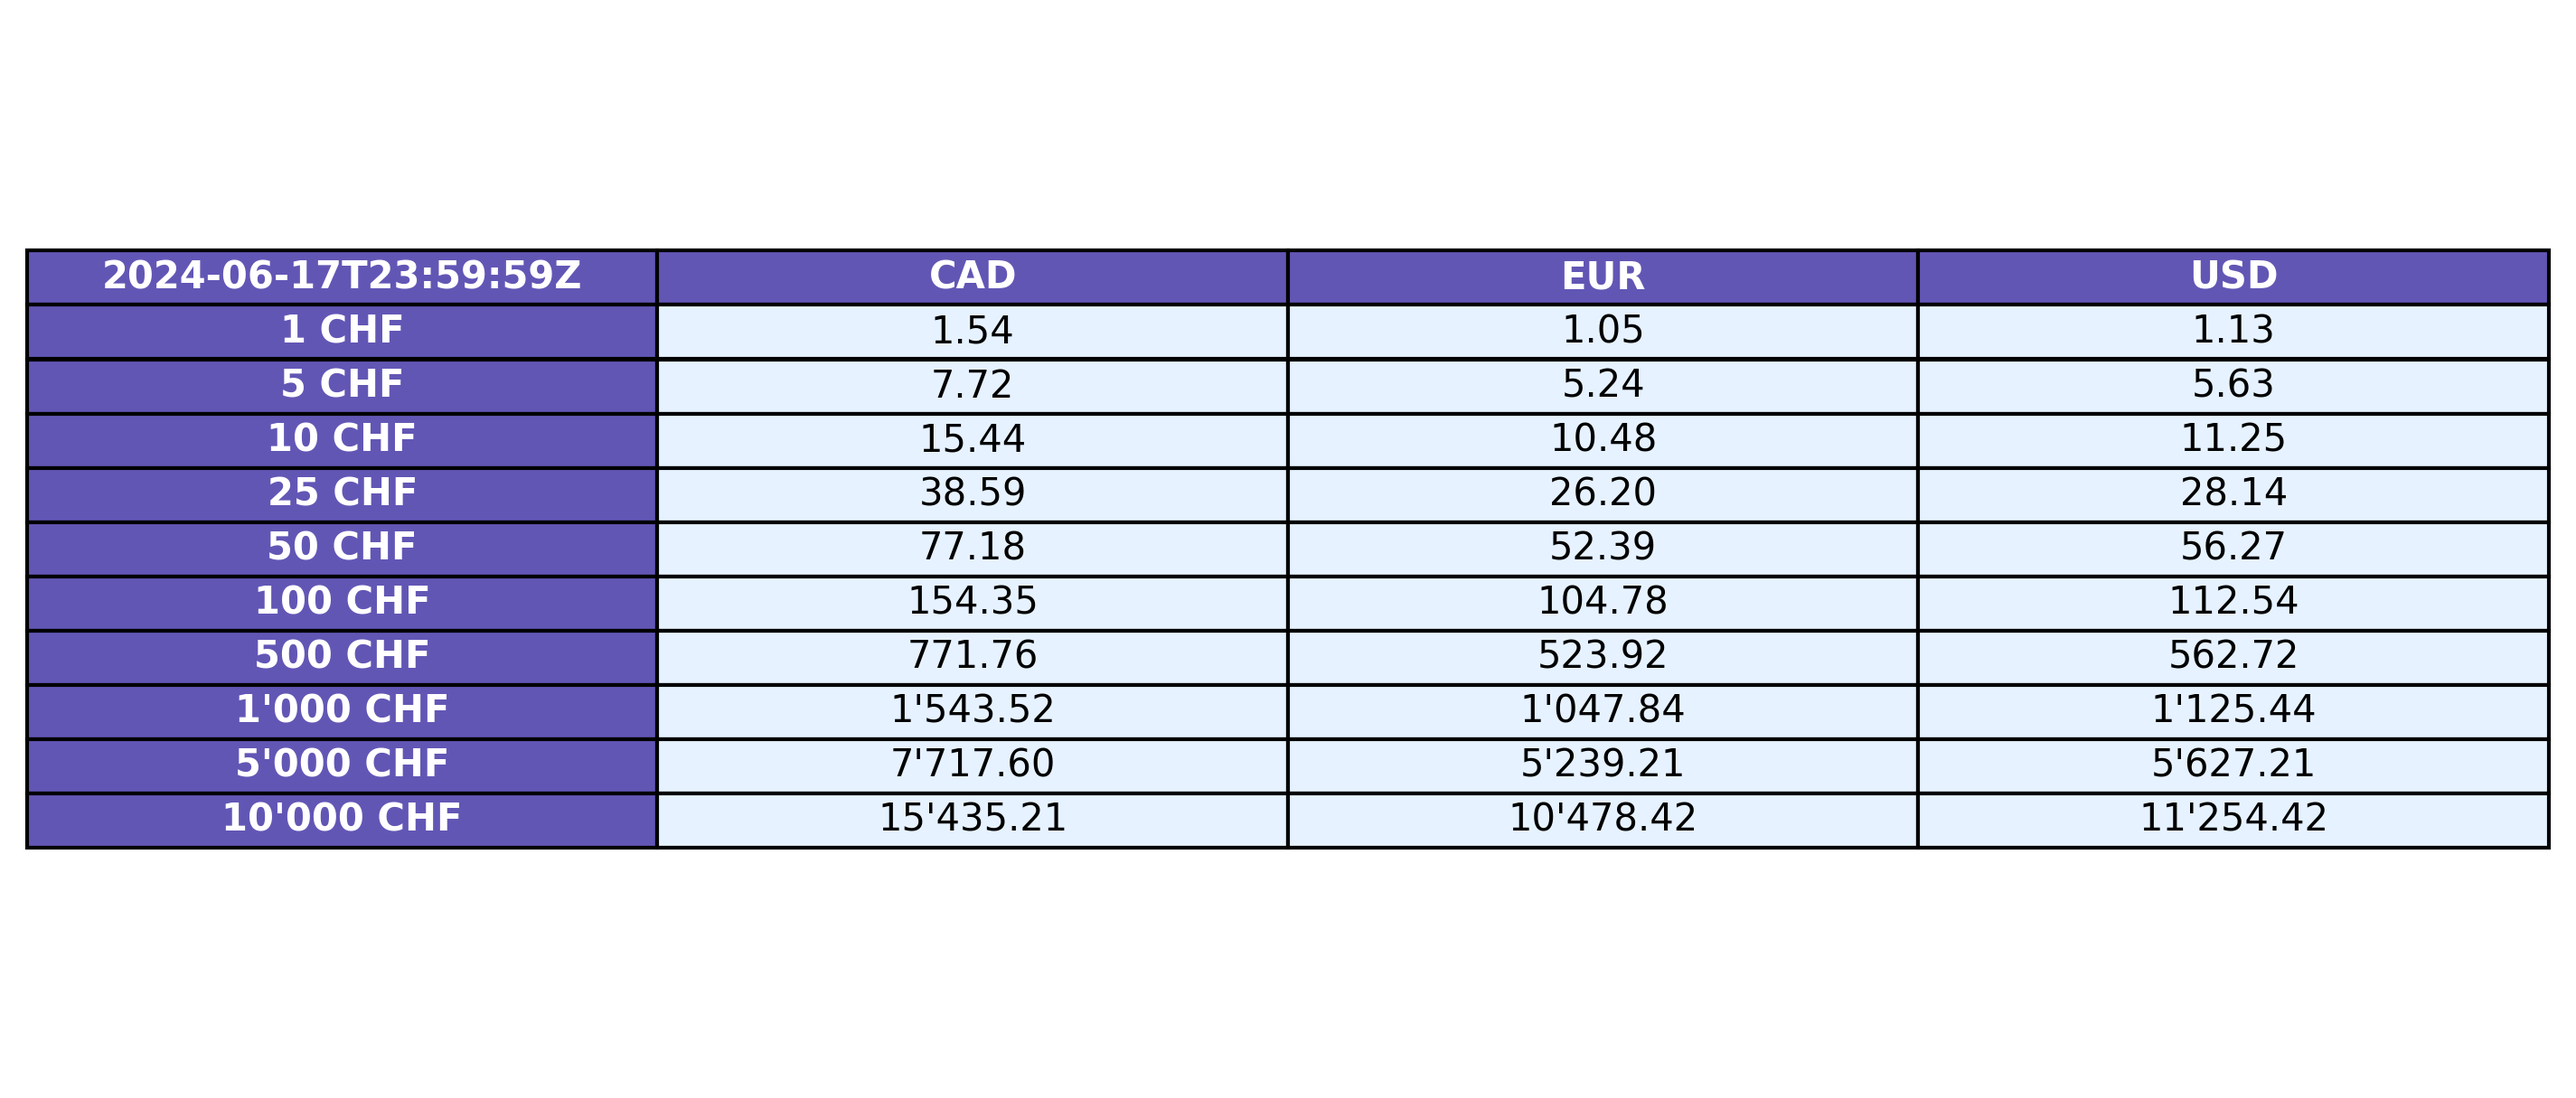
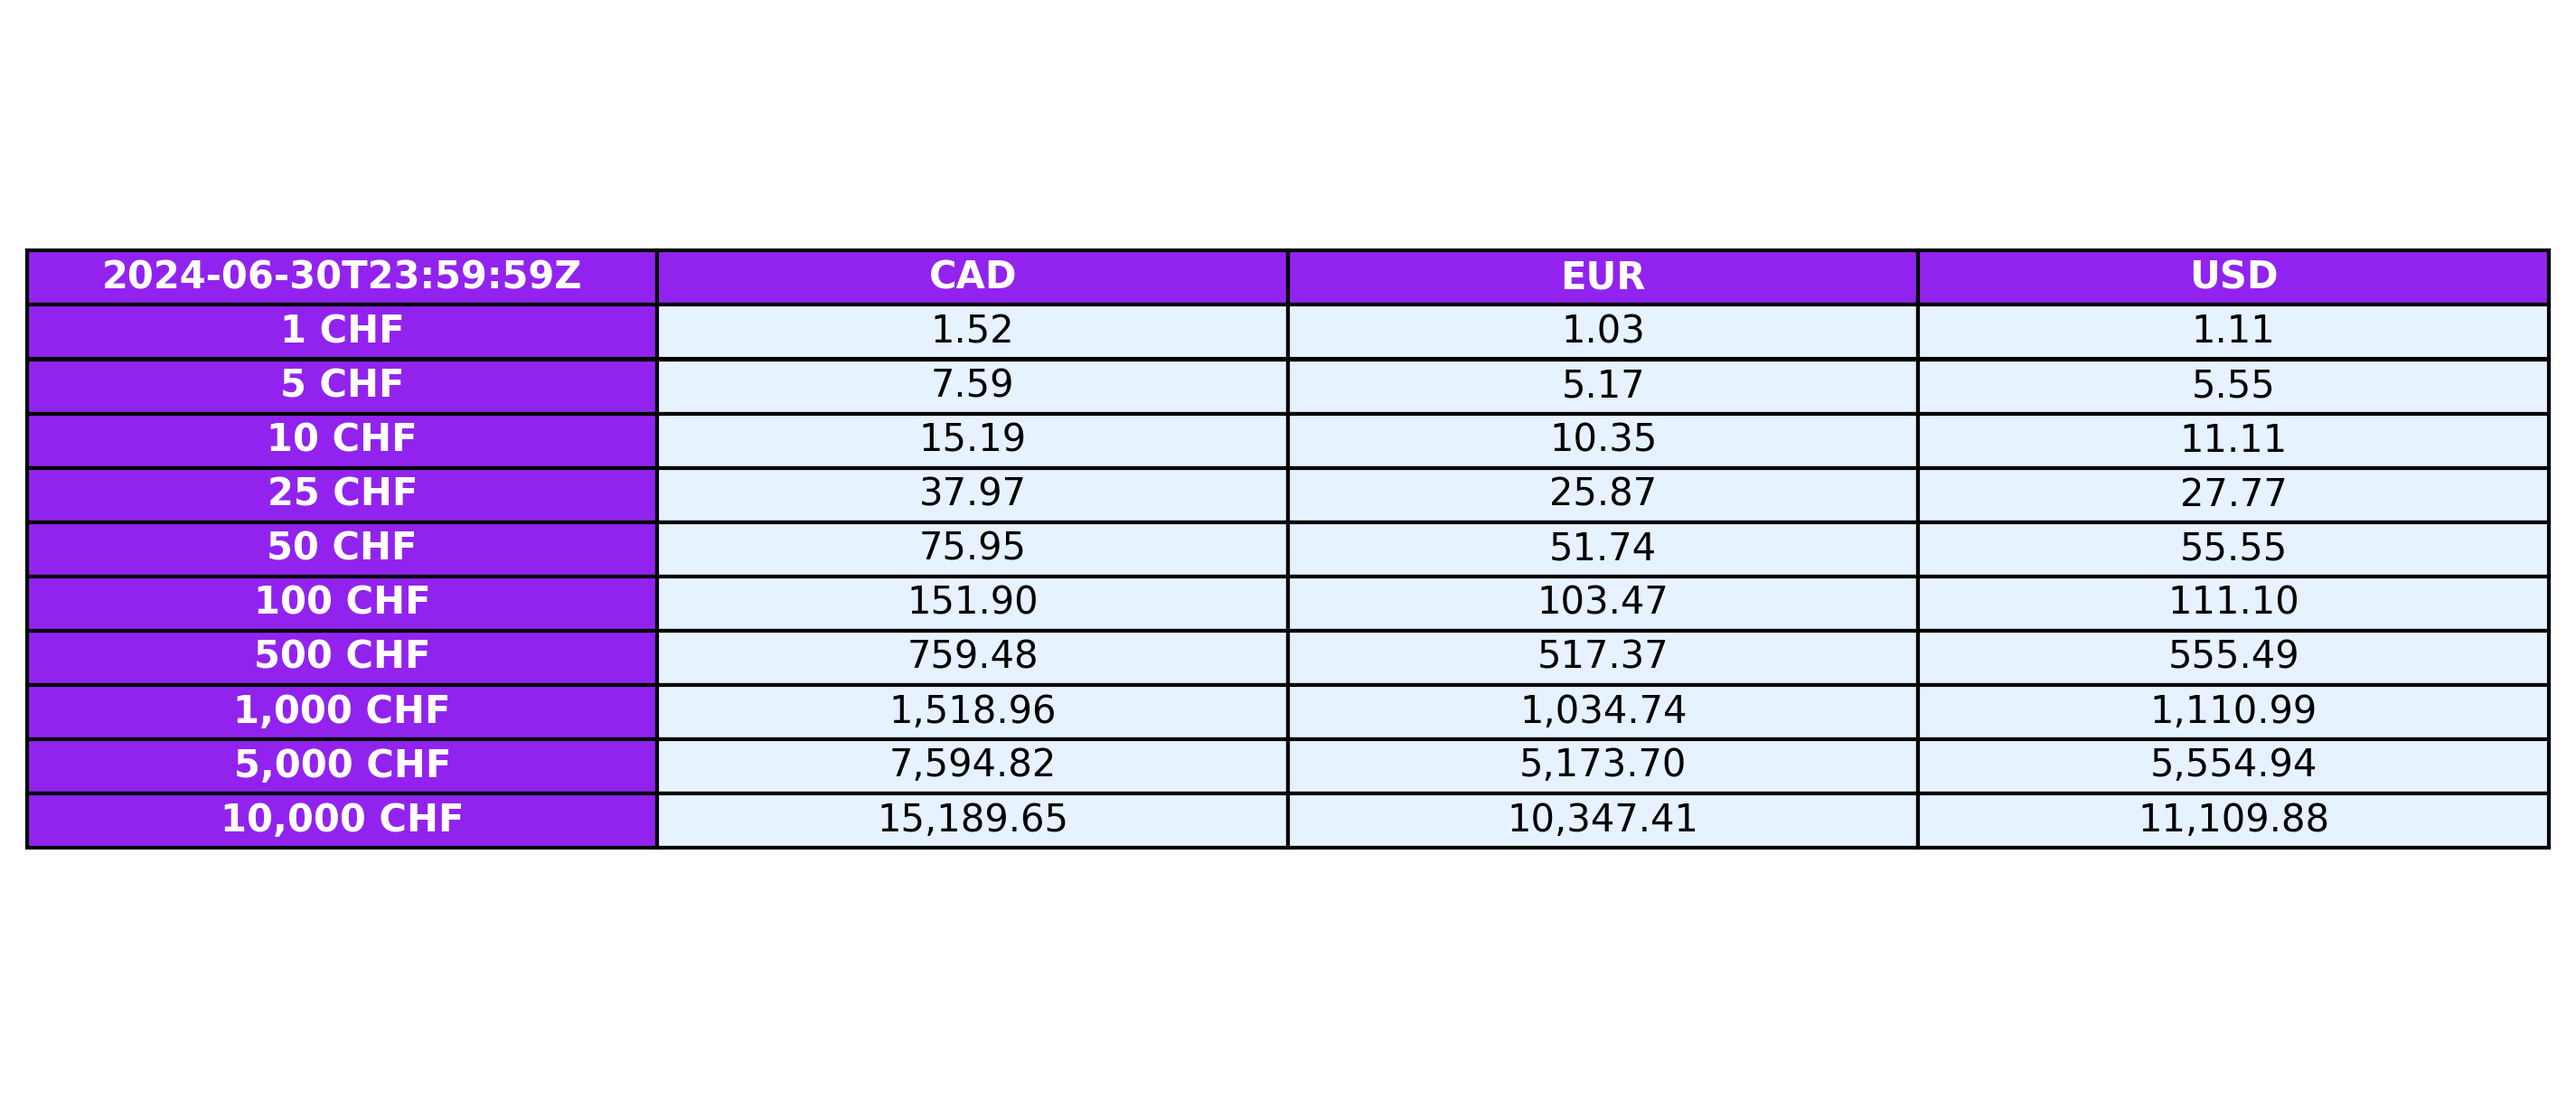
email

diff --git a/project/currency.py b/project/currency.py
@@ -9,11 +9,8 @@ from matplotlib.colors import hsv_to_rgb, hex2color
 import os
 import configparser
 import logging
-import smtplib
-from email.mime.multipart import MIMEMultipart
-from email.mime.text import MIMEText
-from email.mime.application import MIMEApplication
-from email.utils import formataddr
+from mailjet_rest import Client
+import base64
 
 # Load configuration
 config = configparser.ConfigParser()
@@ -28,6 +25,12 @@ SSH_HOST = config['SSH']['SSH_HOST']
 SSH_USER = config['SSH']['SSH_USER']
 SSH_KEY_PATH = config['SSH']['SSH_KEY_PATH']
 
+# Mailjet configuration
+MAILJET_API_KEY = config['MAILJET']['API_KEY']
+MAILJET_API_SECRET = config['MAILJET']['API_SECRET']
+SENDER_EMAIL = config['MAILJET']['SENDER_EMAIL']
+RECIPIENT_EMAIL = config['MAILJET']['RECIPIENT_EMAIL']
+
 # Options configuration
 DUMPING_TABLE_IMAGE = config.getboolean('OPTIONS', 'DUMPING_TABLE_IMAGE')
 DUMPING_JSON_FILE = config.getboolean('OPTIONS', 'DUMPING_JSON_FILE')
@@ -37,21 +40,14 @@ VALUES = list(map(int, config['OPTIONS']['VALUES'].split(',')))
 COLOR = config['OPTIONS']['COLOR']
 TRANSPARENCY = config.getfloat('OPTIONS', 'TRANSPARENCY')
 CURRENCY_LOG = config.getboolean('OPTIONS', 'CURRENCY_LOG')
-SEND_EMAIL = config.getboolean('OPTIONS', 'SEND_EMAIL')
-
-# Email configuration
-SMTP_SERVER = config['EMAIL']['SMTP_SERVER']
-SMTP_PORT = config['EMAIL']['SMTP_PORT']
-SMTP_USER = config['EMAIL']['SMTP_USER']
-SMTP_PASSWORD = config['EMAIL']['SMTP_PASSWORD']
-TO_EMAIL = config['EMAIL']['TO_EMAIL']
+SEND_EMAIL = config.getboolean('OPTIONS', 'SEND_EMAIL')  # Add this line
 
 # Paths
 DUMP_PATH = os.path.join(os.path.dirname(__file__), 'dump')
 LOCAL_PATH = os.path.join(DUMP_PATH, 'table.png')
 JSON_PATH = os.path.join(DUMP_PATH, 'currency_data.json')
 LOG_PATH = os.path.join(DUMP_PATH, 'currency.log')
-REMOTE_PATH = config['PATHS']['REMOTE_PATH']  # Nginx Standardpfad
+REMOTE_PATH = config['PATHS']['REMOTE_PATH']
 
 # Ensure dump directory exists
 os.makedirs(DUMP_PATH, exist_ok=True)
@@ -76,22 +72,17 @@ def log_message(level, message):
         getattr(logger, level)(message)
 
 def fetch_currency_data():
-    log_message('info', 'Fetching currency data from API')
     response = requests.get(API_URL)
-    response.raise_for_status()
-    log_message('info', 'Currency data fetched successfully')
-    return response.json()
+    data = response.json()
+    log_message('info', 'Fetched currency data')
+    return data
 
-def format_large_numbers(value, decimal_places):
-    formatted_value = f"{value:,.{decimal_places}f}"
-    return formatted_value.replace(',', "'")
+def format_large_numbers(number, decimal_places):
+    return f"{number:,.{decimal_places}f}"
 
 def get_color():
-    if COLOR.lower() == "random":
-        h = np.random.rand()
-        s = 0.5 + 0.5 * np.random.rand()  # Saturation between 0.5 and 1
-        v = 0.7 + 0.3 * np.random.rand()  # Brightness between 0.7 und 1
-        return hsv_to_rgb((h, s, v))
+    if COLOR == 'random':
+        return np.random.rand(3,)
     else:
         return hex2color(COLOR)
 
@@ -146,33 +137,45 @@ def upload_to_server(local_file, remote_path):
     ssh = paramiko.SSHClient()
     ssh.set_missing_host_key_policy(paramiko.AutoAddPolicy())
     ssh.connect(SSH_HOST, username=SSH_USER, key_filename=SSH_KEY_PATH)
-    
+
     with SCPClient(ssh.get_transport()) as scp:
         scp.put(local_file, remote_path)
     ssh.close()
     log_message('info', 'Table image uploaded to server')
 
-def send_email(subject, body, attachment_path):
-    log_message('info', 'Sending email with table attachment')
-
-    msg = MIMEMultipart()
-    msg['From'] = SMTP_USER
-    msg['To'] = TO_EMAIL
-    msg['Subject'] = subject
-
-    msg.attach(MIMEText(body, 'plain'))
-
-    with open(attachment_path, "rb") as attachment:
-        part = MIMEApplication(attachment.read(), Name=os.path.basename(attachment_path))
-        part['Content-Disposition'] = f'attachment; filename="{os.path.basename(attachment_path)}"'
-        msg.attach(part)
-
-    with smtplib.SMTP(SMTP_SERVER, SMTP_PORT) as server:
-        server.starttls()
-        server.login(SMTP_USER, SMTP_PASSWORD)
-        server.sendmail(SMTP_USER, TO_EMAIL, msg.as_string())
+def send_email(subject, text, attachment_path=None):
+    mailjet = Client(auth=(MAILJET_API_KEY, MAILJET_API_SECRET), version='v3.1')
+    data = {
+        'Messages': [
+            {
+                "From": {
+                    "Email": SENDER_EMAIL,
+                    "Name": "Currency Converter"
+                },
+                "To": [
+                    {
+                        "Email": RECIPIENT_EMAIL,
+                        "Name": "Recipient"
+                    }
+                ],
+                "Subject": subject,
+                "TextPart": text,
+            }
+        ]
+    }
+    if attachment_path:
+        with open(attachment_path, "rb") as f:
+            encoded_file = base64.b64encode(f.read()).decode('utf-8')
+            data['Messages'][0]['Attachments'] = [
+                {
+                    "ContentType": "image/png",
+                    "Filename": os.path.basename(attachment_path),
+                    "Base64Content": encoded_file
+                }
+            ]
     
-    log_message('info', 'Email sent successfully')
+    result = mailjet.send.create(data=data)
+    log_message('info', f"Email sent: {result.status_code} {result.json()}")
 
 def main():
     try:
@@ -193,13 +196,14 @@ def main():
         if DUMPING_TABLE_IMAGE:
             upload_to_server(LOCAL_PATH, REMOTE_PATH)
             print("Tabelle erfolgreich auf den Server hochgeladen.")
-
-            if SEND_EMAIL:
-                send_email("Aktuelle Wechselkurstabelle", "Anbei die aktuelle Wechselkurstabelle.", LOCAL_PATH)
-                print("Email erfolgreich verschickt.")
         elif os.path.exists(LOCAL_PATH):
             os.remove(LOCAL_PATH)
             log_message('info', 'Existing table image deleted')
+        
+        # Send email with table image if SEND_EMAIL is True
+        if SEND_EMAIL:
+            send_email("Currency Conversion Table", "Please find the attached currency conversion table.", LOCAL_PATH)
+
         log_message('info', 'Script completed successfully')
     except Exception as e:
         log_message('error', f"Error occurred: {e}")
